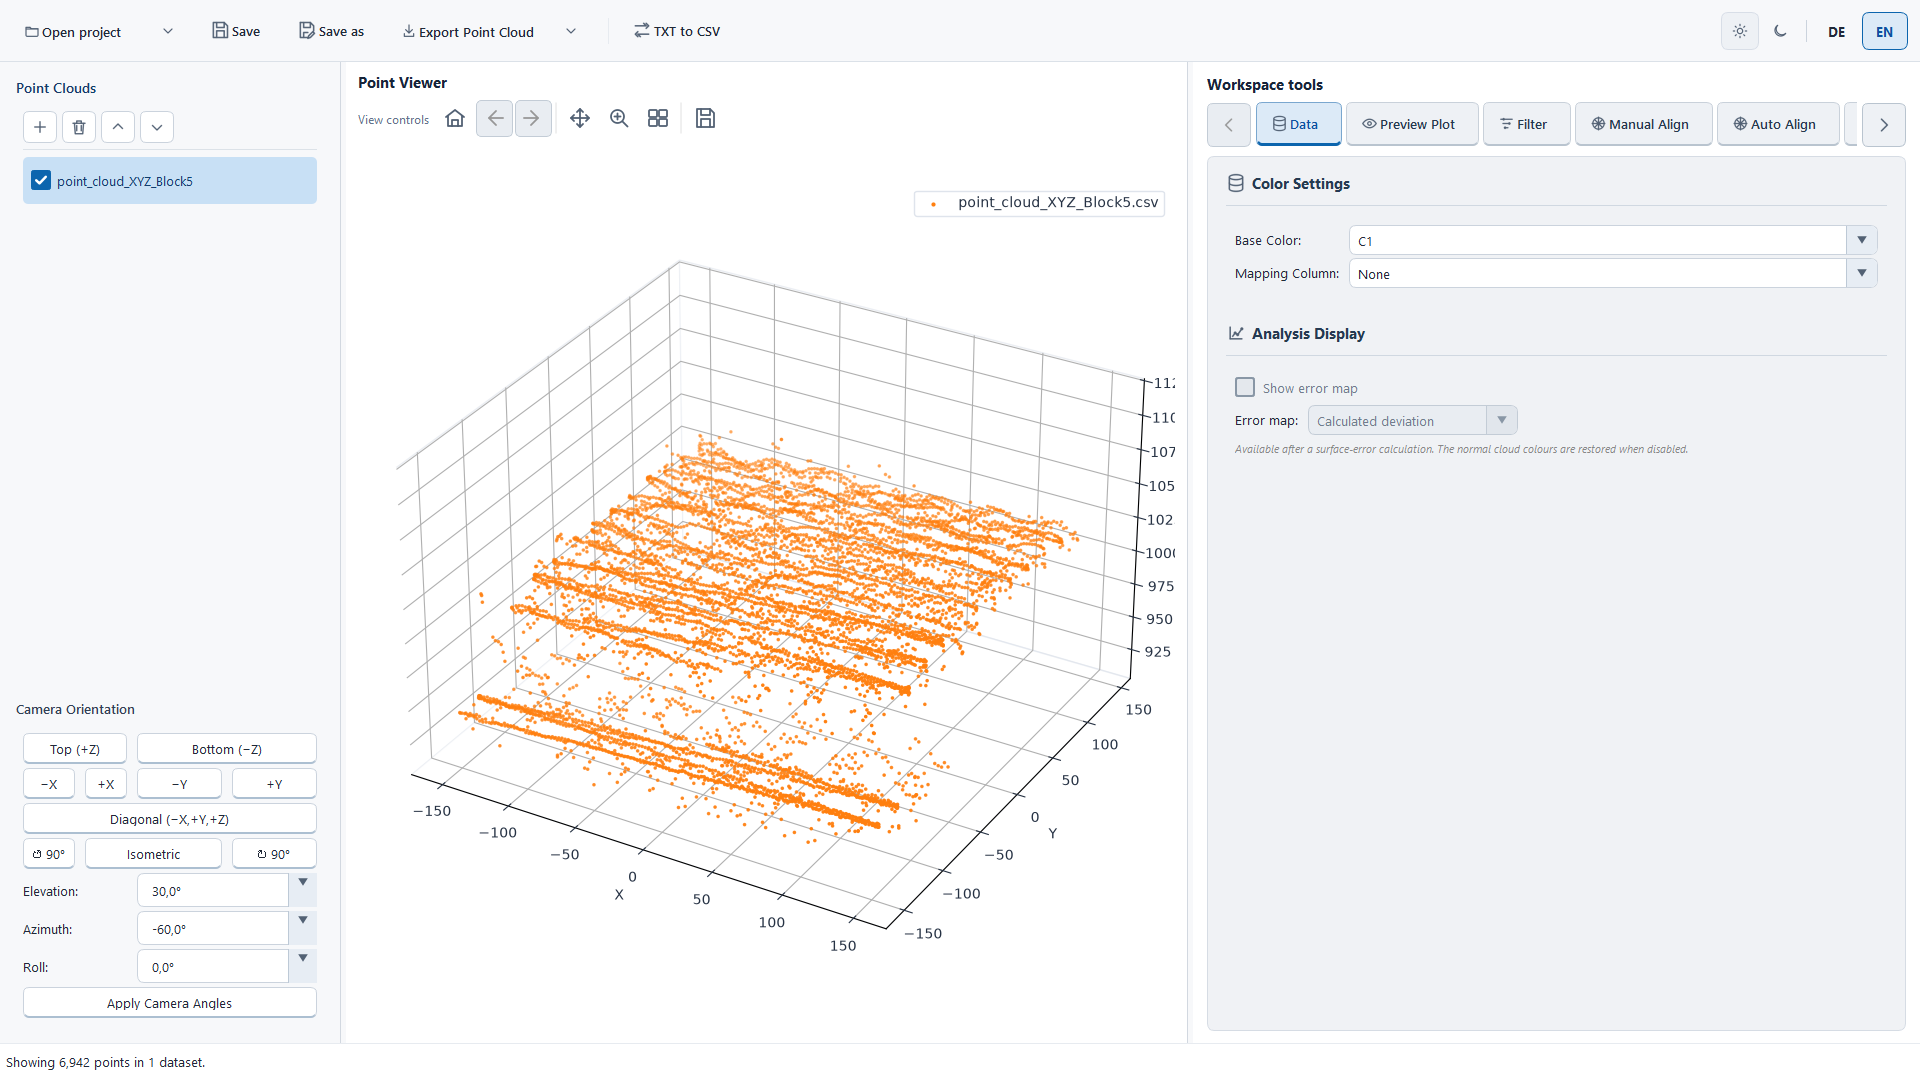
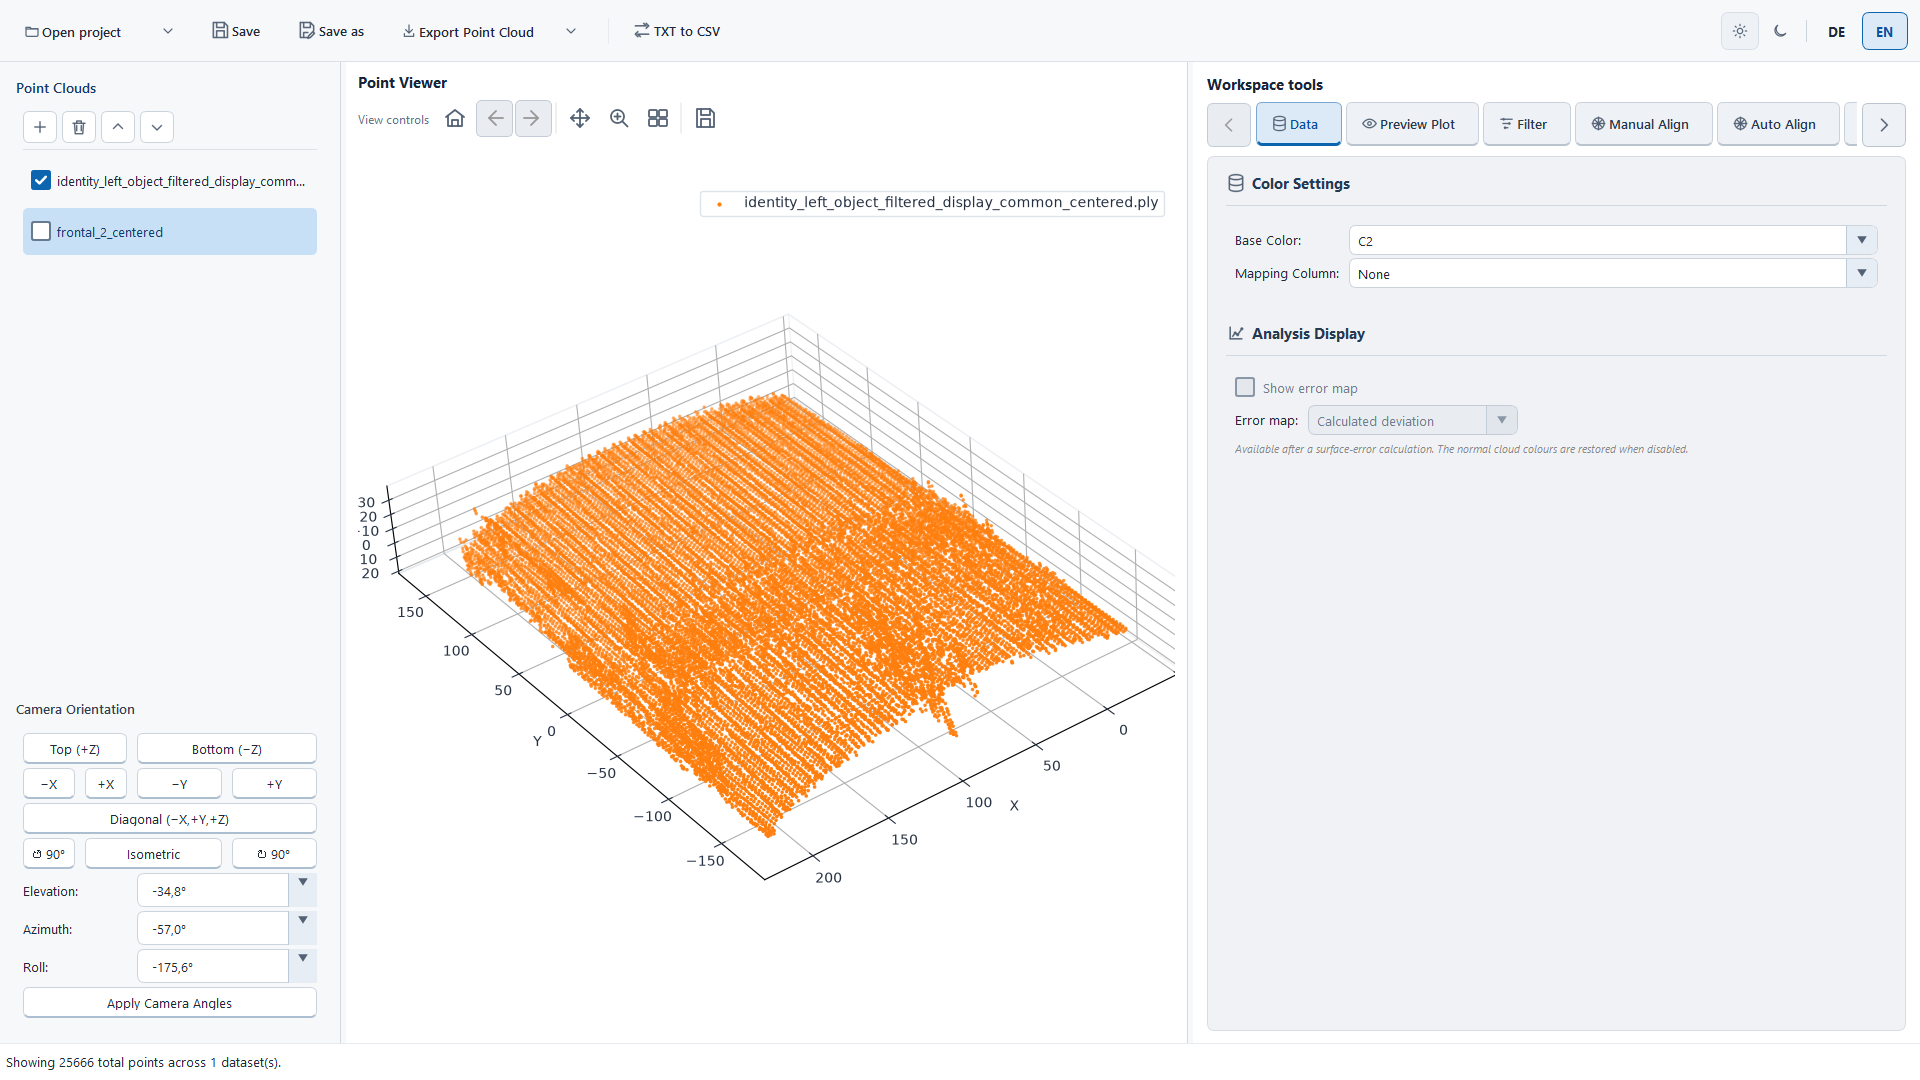
Use A3 project data for README screenshot

diff --git a/README.md b/README.md
@@ -8,7 +8,7 @@
 <p align="center">
   <img src="docs/images/app-screenshot.png" alt="SPP 2433 Point Cloud Evaluation displaying a loaded 3-D point cloud" width="100%">
 </p>
-<p align="center"><em>The application with a loaded example point cloud.</em></p>
+<p align="center"><em>The A3 project displaying a point cloud from the A4 folder.</em></p>
 
 ## Quick start
 
